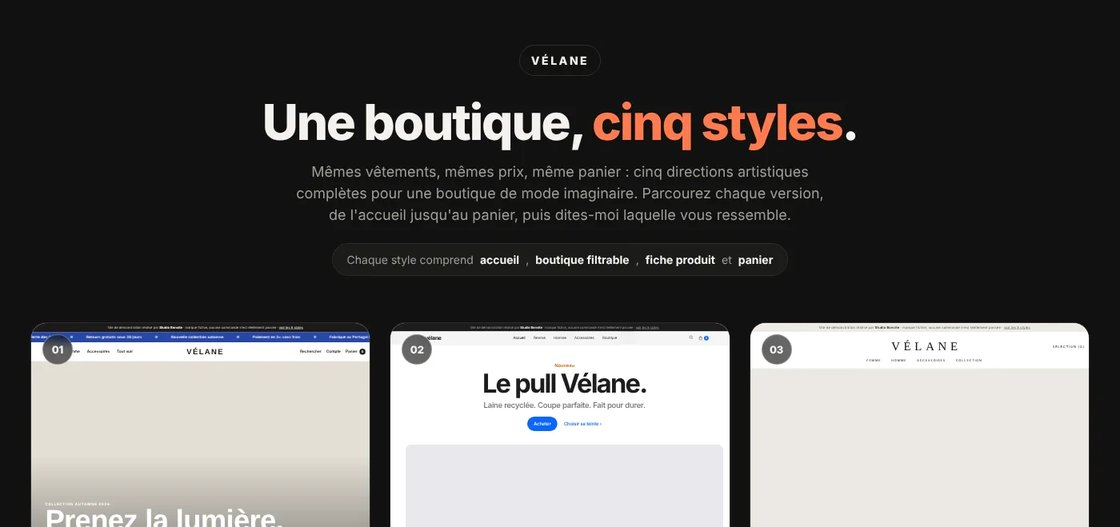
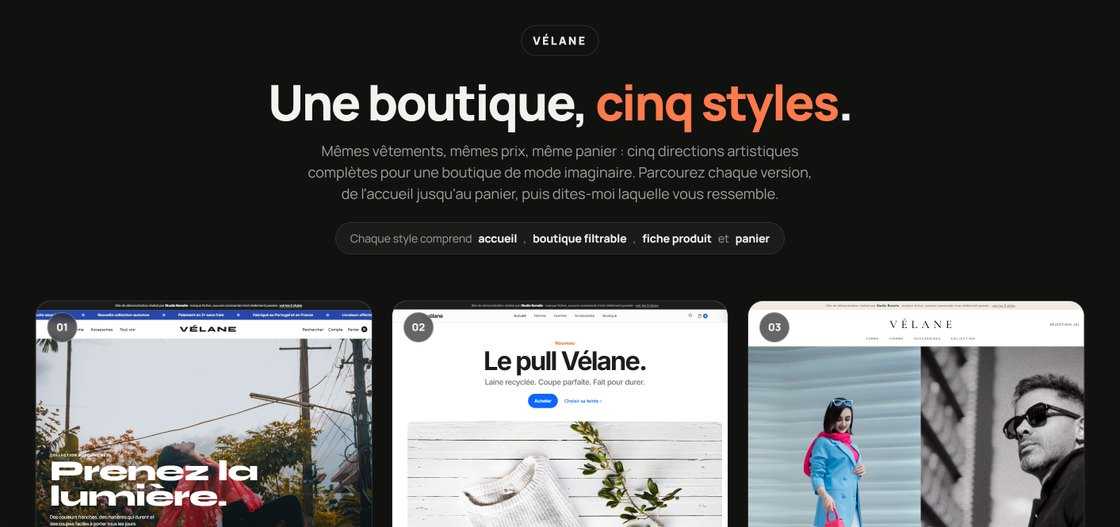
update

diff --git a/index.html b/index.html
@@ -4,6 +4,9 @@
 <meta charset="UTF-8">
 <meta name="viewport" content="width=device-width, initial-scale=1.0">
 <title>Studio Bonsite — Création de sites web à Aix &amp; Marseille</title>
+<link rel="icon" href="favicon.ico" sizes="any">
+<link rel="icon" href="favicon.svg" type="image/svg+xml">
+<link rel="apple-touch-icon" href="apple-touch-icon.png">
 <meta name="description" content="Studio Bonsite crée des sites internet vitrine et e-commerce, et intègre l'IA, pour les commerces et indépendants d'Aix-en-Provence, Marseille et toute la France.">
 <meta property="og:title" content="Studio Bonsite — Votre site doit faire venir des clients">
 <meta property="og:description" content="Sites vitrine, boutiques en ligne et refontes, conçus à la main. Devis gratuit, réponse sous 48h.">
@@ -102,6 +105,7 @@ p{margin:0}
 /* NAV */
 nav{position:sticky;top:0;z-index:20;display:flex;align-items:center;justify-content:space-between;gap:20px;padding:16px var(--pad);background:rgba(251,250,247,.9);backdrop-filter:blur(10px);-webkit-backdrop-filter:blur(10px);border-bottom:1px solid rgba(18,33,28,.1)}
 .logo{display:flex;align-items:center;gap:10px;font-weight:800;font-size:17px;letter-spacing:-.02em}
+.logo img{height:34px;width:auto;display:block}
 .logo b{width:26px;height:26px;border-radius:8px;background:var(--green);display:inline-flex;align-items:center;justify-content:center;color:var(--bg);font-size:13px}
 .nav-links{display:flex;align-items:center;gap:26px;font-size:14px;font-weight:600}
 .nav-cta{background:var(--ink);color:var(--bg);padding:10px 16px;border-radius:10px;white-space:nowrap}
@@ -333,7 +337,7 @@ footer div{display:flex;gap:20px;flex-wrap:wrap}
 <body>
 
 <nav>
-  <a href="#top" class="logo"><b>b</b>Studio bonsite</a>
+  <a href="#top" class="logo"><img src="img/brand/bonsite-b.svg" alt="" width="43" height="28">Studio bonsite</a>
   <div class="nav-links">
     <a href="#services">Services</a>
     <a href="#realisations">Réalisations</a>

diff --git a/mentions-legales.html b/mentions-legales.html
@@ -4,6 +4,9 @@
 <meta charset="UTF-8">
 <meta name="viewport" content="width=device-width, initial-scale=1.0">
 <title>Mentions légales — Studio Bonsite</title>
+<link rel="icon" href="favicon.ico" sizes="any">
+<link rel="icon" href="favicon.svg" type="image/svg+xml">
+<link rel="apple-touch-icon" href="apple-touch-icon.png">
 <meta name="description" content="Mentions légales du site Studio Bonsite : éditeur, hébergeur, propriété intellectuelle.">
 <meta name="robots" content="noindex">
 <link rel="preconnect" href="https://fonts.googleapis.com">
@@ -17,6 +20,7 @@ a{color:inherit;text-decoration:none;transition:color .2s}
 a:hover{color:var(--green)}
 nav{position:sticky;top:0;z-index:20;display:flex;align-items:center;justify-content:space-between;gap:20px;padding:16px var(--pad);background:rgba(251,250,247,.9);backdrop-filter:blur(10px);-webkit-backdrop-filter:blur(10px);border-bottom:1px solid rgba(18,33,28,.1)}
 .logo{display:flex;align-items:center;gap:10px;font-weight:800;font-size:17px;letter-spacing:-.02em}
+.logo img{height:34px;width:auto;display:block}
 .logo b{width:26px;height:26px;border-radius:8px;background:var(--green);display:inline-flex;align-items:center;justify-content:center;color:var(--bg);font-size:13px}
 .retour{font-size:14px;font-weight:600}
 main{max-width:46em;margin:0 auto;padding:clamp(48px,8vw,100px) var(--pad)}
@@ -40,7 +44,7 @@ footer div{display:flex;gap:20px;flex-wrap:wrap}
 </style>
 </head>
 <body>
-<nav><a href="/" class="logo"><b>b</b>Studio bonsite</a><a class="retour" href="/">← Retour au site</a></nav>
+<nav><a href="/" class="logo"><img src="img/brand/bonsite-b.svg" alt="" width="43" height="28">Studio bonsite</a><a class="retour" href="/">← Retour au site</a></nav>
 <main>
 <div class="eyebrow">Informations légales</div>
 <h1>Mentions légales</h1>

diff --git a/confidentialite.html b/confidentialite.html
@@ -4,6 +4,9 @@
 <meta charset="UTF-8">
 <meta name="viewport" content="width=device-width, initial-scale=1.0">
 <title>Confidentialité — Studio Bonsite</title>
+<link rel="icon" href="favicon.ico" sizes="any">
+<link rel="icon" href="favicon.svg" type="image/svg+xml">
+<link rel="apple-touch-icon" href="apple-touch-icon.png">
 <meta name="description" content="Politique de confidentialité de Studio Bonsite : formulaires, prospection, cookies et vos droits.">
 <meta name="robots" content="noindex">
 <link rel="preconnect" href="https://fonts.googleapis.com">
@@ -17,6 +20,7 @@ a{color:inherit;text-decoration:none;transition:color .2s}
 a:hover{color:var(--green)}
 nav{position:sticky;top:0;z-index:20;display:flex;align-items:center;justify-content:space-between;gap:20px;padding:16px var(--pad);background:rgba(251,250,247,.9);backdrop-filter:blur(10px);-webkit-backdrop-filter:blur(10px);border-bottom:1px solid rgba(18,33,28,.1)}
 .logo{display:flex;align-items:center;gap:10px;font-weight:800;font-size:17px;letter-spacing:-.02em}
+.logo img{height:34px;width:auto;display:block}
 .logo b{width:26px;height:26px;border-radius:8px;background:var(--green);display:inline-flex;align-items:center;justify-content:center;color:var(--bg);font-size:13px}
 .retour{font-size:14px;font-weight:600}
 main{max-width:46em;margin:0 auto;padding:clamp(48px,8vw,100px) var(--pad)}
@@ -40,7 +44,7 @@ footer div{display:flex;gap:20px;flex-wrap:wrap}
 </style>
 </head>
 <body>
-<nav><a href="/" class="logo"><b>b</b>Studio bonsite</a><a class="retour" href="/">← Retour au site</a></nav>
+<nav><a href="/" class="logo"><img src="img/brand/bonsite-b.svg" alt="" width="43" height="28">Studio bonsite</a><a class="retour" href="/">← Retour au site</a></nav>
 <main>
 <div class="eyebrow">Vos données</div>
 <h1>Confidentialité</h1>

diff --git a/audit.html b/audit.html
@@ -4,6 +4,9 @@
 <meta charset="UTF-8">
 <meta name="viewport" content="width=device-width, initial-scale=1.0">
 <title>Audit gratuit de votre site — Studio Bonsite</title>
+<link rel="icon" href="favicon.ico" sizes="any">
+<link rel="icon" href="favicon.svg" type="image/svg+xml">
+<link rel="apple-touch-icon" href="apple-touch-icon.png">
 <meta name="description" content="Recevez gratuitement l'audit complet de votre site internet : ce qui freine vos clients et comment y remédier.">
 <meta name="robots" content="noindex">
 <link rel="preconnect" href="https://fonts.googleapis.com">
@@ -44,6 +47,7 @@ p{margin:0}
 /* NAV */
 nav{position:sticky;top:0;z-index:20;display:flex;align-items:center;justify-content:space-between;gap:20px;padding:16px var(--pad);background:rgba(251,250,247,.9);backdrop-filter:blur(10px);-webkit-backdrop-filter:blur(10px);border-bottom:1px solid rgba(18,33,28,.1)}
 .logo{display:flex;align-items:center;gap:10px;font-weight:800;font-size:17px;letter-spacing:-.02em}
+.logo img{height:34px;width:auto;display:block}
 .logo b{width:26px;height:26px;border-radius:8px;background:var(--green);display:inline-flex;align-items:center;justify-content:center;color:var(--bg);font-size:13px}
 .nav-links{display:flex;align-items:center;gap:26px;font-size:14px;font-weight:600}
 .nav-cta{background:var(--ink);color:var(--bg);padding:10px 16px;border-radius:10px;white-space:nowrap}
@@ -196,7 +200,7 @@ select{border:1.5px solid rgba(18,33,28,.15);border-radius:10px;padding:13px 14p
 <body>
 
 <nav>
-  <a href="/" class="logo"><b>b</b>Studio bonsite</a>
+  <a href="/" class="logo"><img src="img/brand/bonsite-b.svg" alt="" width="43" height="28">Studio bonsite</a>
   <div class="nav-links">
     <a href="/#services">Services</a>
     <a href="/#realisations">Réalisations</a>

diff --git a/velane/index.html b/velane/index.html
@@ -38,12 +38,17 @@
   .btn{flex:1;text-align:center;font-weight:700;font-size:14px;padding:13px;border-radius:12px;transition:background .15s,border-color .15s}
   .btn.plein{background:var(--ink);color:#111}.btn.plein:hover{background:#fff}
   .btn.ligne{border:1px solid var(--ligne)}.btn.ligne:hover{border-color:#666}
+  .retour{position:absolute;top:22px;left:24px;z-index:5;display:inline-flex;align-items:center;gap:5px;padding:10px 18px;border:1px solid var(--ligne);border-radius:999px;background:var(--panel);color:var(--ink);font-size:14px;font-weight:700;transition:border-color .15s,background .15s}
+  .retour:hover{border-color:#666;background:#232320}
+  .retour b{color:var(--accent)}
   footer{border-top:1px solid var(--ligne);padding:26px 0;text-align:center;color:var(--dim);font-size:14px}
   @media(max-width:1100px){.grille{grid-template-columns:1fr 1fr}}
+  @media(max-width:700px){.retour{position:static;margin:16px 16px 0}header{padding-top:28px}.info{display:block;border-radius:16px;line-height:1.6}}
   @media(max-width:700px){.grille{grid-template-columns:1fr;max-width:520px;margin:0 auto}}
 </style>
 </head>
 <body>
+<a class="retour" href="https://www.studiobon.site/#realisations" target="_top">← Retour sur <b>Studio Bonsite</b></a>
 <header><div class="wrap">
   <span class="logo">VÉLANE</span>
   <h1>Une boutique, <span>cinq styles</span>.</h1>

diff --git a/velane/commun/moteur.js b/velane/commun/moteur.js
@@ -10,7 +10,7 @@ const CLE='velane-panier-'+THEME.cle;
 let panier=store.get(CLE,[]);
 
 function layout(page){
-  document.body.insertAdjacentHTML('afterbegin',`<div class="demo">Site de démonstration réalisé par <b>Studio Bonsite</b> · marque fictive, aucune commande n'est réellement passée · <a href="../index.html">voir les 5 styles</a></div>`+THEME.entete(page));
+  document.body.insertAdjacentHTML('afterbegin',`<div class="demo">Site de démonstration réalisé par <a href="https://www.studiobon.site/#realisations" target="_top"><b>Studio Bonsite</b></a> · marque fictive, aucune commande n'est réellement passée · <a href="../index.html">voir les 5 styles</a></div>`+THEME.entete(page));
   const t=T();
   document.body.insertAdjacentHTML('beforeend',THEME.pied()+`
   <div class="voile"></div>
